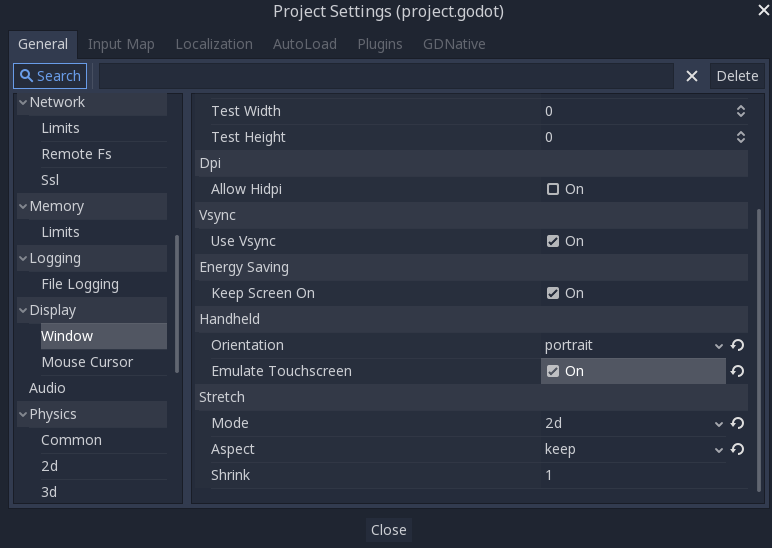
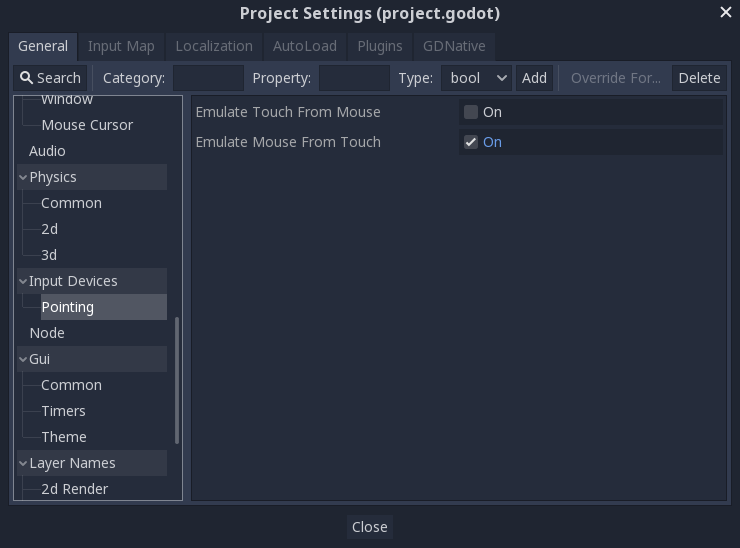
update_exporting

diff --git a/getting_started/step_by_step/exporting.rst b/getting_started/step_by_step/exporting.rst
@@ -28,15 +28,18 @@ or tablet, you need to support touchscreen input. Because a click event can
 be treated the same as a touch event, we'll convert the game to a click-and-move
 input style.
 
-The first step is to open "Project Settings" and find the *Handheld* section.
-Enable the *Emulate Touchscreen* option. This lets you treat mouse click
-events the same as touch events, so you can test the game on a computer without
-a touchscreen. Also, make sure to select "portrait" under *Orientation*.
-
-In the *Stretch* section, set *Mode* to "2d" and *Aspect* to "keep". This
-ensures that the game scales consistently on different sized screens.
+By default Godot emulates mouse input from touch input. That means if anything
+is coded to happen on a mouse event, touch will trigger it as well. If you wish to
+disable that for whatever reason, or emulate touch from mouse input, you can do that
+in the "Project Settings" under *Input Devices* and *Pointing*
 
 .. image:: img/export_touchsettings.png
+
+Before we change the input method, in the project settings go to *Display*,
+then click on *Window*. In the *Stretch* options, set *Mode* to "2d" and *Aspect* to 
+"keep". This ensures that the game scales consistently on different sized screens.
+
+.. image:: img/export_stretchsettings
 
 Next, we need to modify the ``Player.gd`` script to change the input method.
 We'll remove the key inputs and make the player move towards a "target" that's
